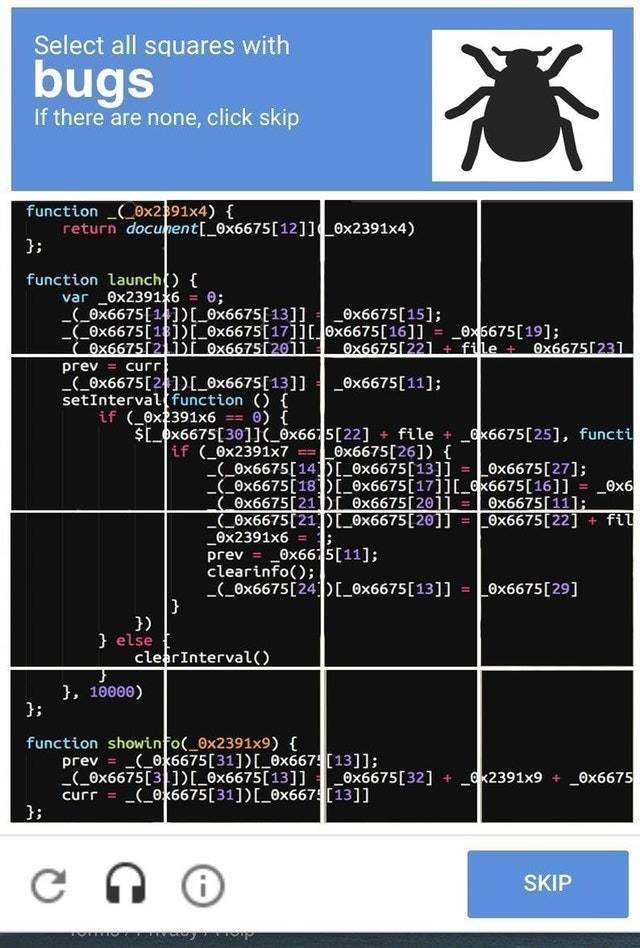
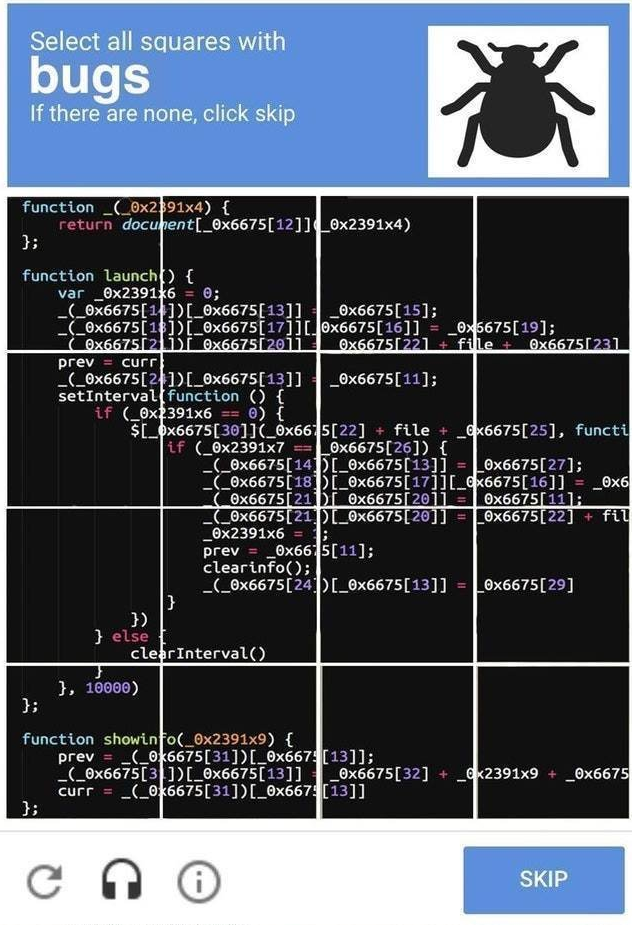
Extra css styles, small fixes to pics

Changed region(s): [[0.0, 0.0, 1.0, 1.0], [0.5111, 0.2119, 0.6614, 0.2724]]

diff --git a/publications/presentation/custom_css/reveal-override.css b/publications/presentation/custom_css/reveal-override.css
@@ -22,6 +22,10 @@ hr {
 	border-bottom: 2px solid #DDDDDD;
 }
 
+.red {
+	color: red;
+}
+
 .reveal section img {
 	margin: 15px 0px;
 	background: rgba(255, 255, 255, 0.12);
@@ -40,4 +44,73 @@ section.table-small table {
 
 section.dependency table {
 	margin: unset;
+}
+
+section.ul-small ul {
+	font-size: 20px;
+}
+
+
+.fix {
+    position: fixed;
+    bottom: 2.8%;
+    left: 0%;
+}
+
+.bottombar {
+    background-color: #fff;
+    overflow: hidden;
+    position: fixed;
+    bottom: 0;
+    width: 100%;
+    height: 50px;
+    display: flex;
+    align-items: center;
+}
+
+.bottombar span {
+    font-family: "Arial";
+    font-size: 1em;
+    /*font-size: var(--r-main-font-size);*/
+    font-weight: normal;
+    color: var(--r-main-color);
+    margin-left: 10px;
+}
+
+.bottombar span.right {
+    margin-left: auto;
+    margin-right: 100px;
+}
+
+.bottombar span img {
+    margin-left: 10px;
+}
+
+.bottombar span a {
+    text-decoration-line: none;
+}
+
+.center-xy {
+	margin: 0;
+	position: absolute;
+	top: 50%;
+	left: 50%;
+	-ms-transform: translate(-50%, -50%);
+	transform: translate(-50%, -50%);
+}
+
+.center-y {
+	margin: 0;
+	position: absolute;
+	top: 50%;
+	-ms-transform: translate(0%, -50%);
+	transform: translate(0%, -50%);
+}
+
+.center-x {
+	margin: 0;
+	position: absolute;
+	left: 50%;
+	-ms-transform: translate(-50%, 0%);
+	transform: translate(-50%, 0%);
 }
